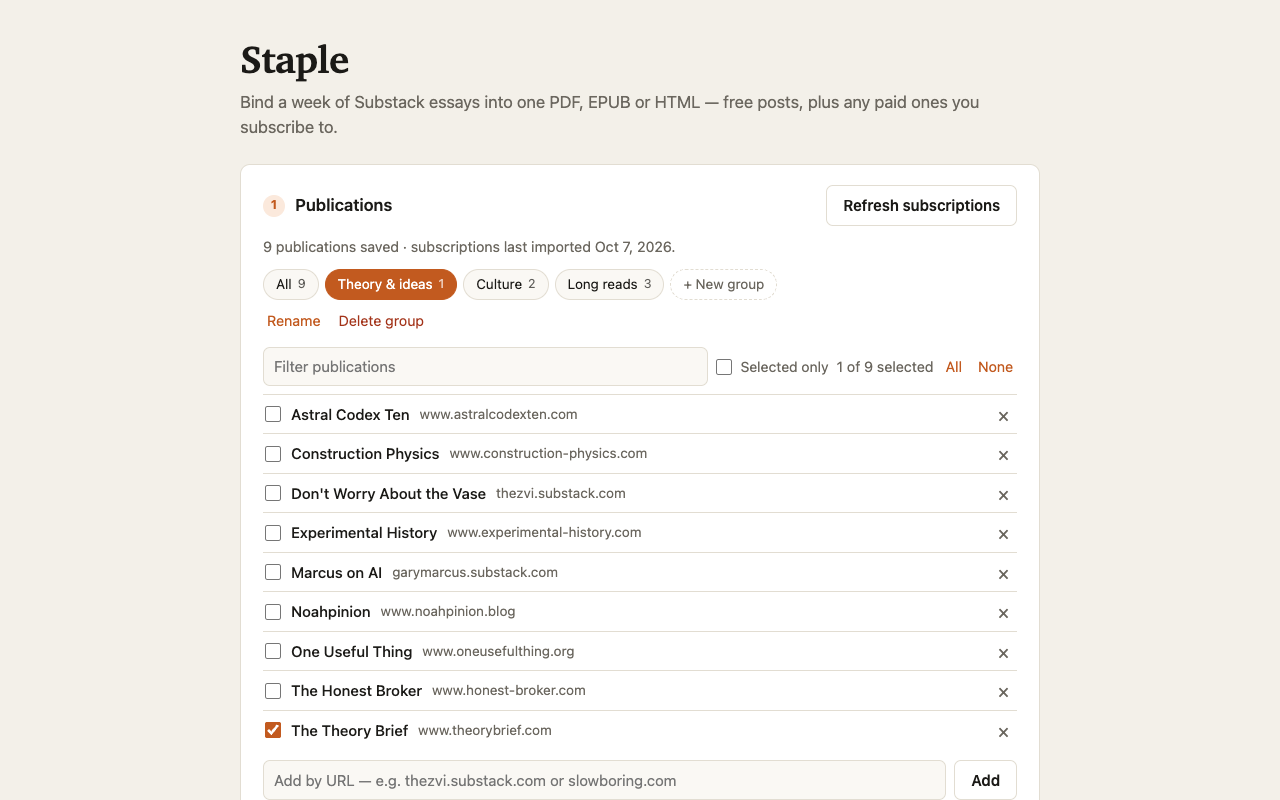
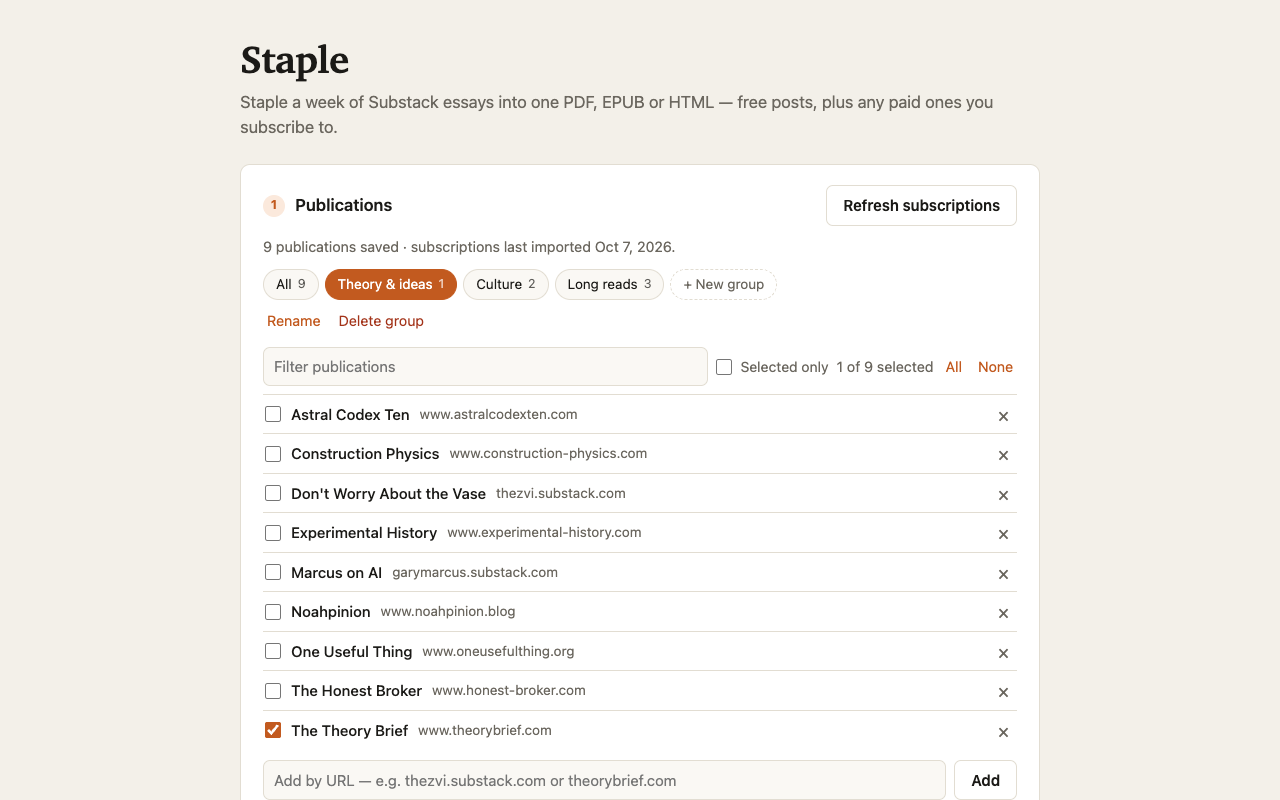
Stapled wording, theorybrief.com examples, final screenshots

Changed region(s): [[0.1875, 0.0938, 0.7812, 0.1562], [0.4375, 0.9688, 0.5, 1.0]]

diff --git a/index.html b/index.html
@@ -3,11 +3,11 @@
 <head>
 <meta charset="utf-8">
 <meta name="viewport" content="width=device-width, initial-scale=1">
-<title>Staple: your week of Substack, bound into one book</title>
+<title>Staple: your week of Substack, stapled into one collection</title>
 <meta name="description" content="Staple is a free Chrome extension that gathers the Substack essays you can read, free posts plus paid ones you subscribe to, into a single PDF, EPUB or HTML file for offline reading. No account, no server, no tracking.">
 <meta name="color-scheme" content="light dark">
 <meta property="og:title" content="Staple">
-<meta property="og:description" content="Your week of Substack, bound into one book: a PDF, EPUB or HTML file for offline reading. Free, and private by design.">
+<meta property="og:description" content="Your week of Substack, stapled into one collection: a PDF, EPUB or HTML file for offline reading. Free, and private by design.">
 <meta property="og:image" content="https://victorshammas.com/staple/icon.png">
 <link rel="icon" type="image/png" href="favicon.png">
 <link rel="apple-touch-icon" href="apple-touch-icon.png">
@@ -30,7 +30,7 @@
     <div class="wrap">
       <div>
         <img class="hero-icon" src="icon.png" alt="Staple extension icon" width="96" height="96">
-        <h1>Your week of Substack, bound into one book.</h1>
+        <h1>Your week of Substack, stapled into one collection.</h1>
         <p class="lede">Staple gathers the Substack essays you can read, free posts plus paid ones you subscribe to, into a single PDF, EPUB or HTML file for offline reading.</p>
         <div class="cta-row">
           <!-- At launch, replace with: <a class="btn" href="https://chromewebstore.google.com/detail/staple/EXTENSION_ID">Add to Chrome <small>Free</small></a> (see README.md). -->
@@ -116,7 +116,7 @@
       <a class="app-tile" href="https://victorshammas.com/plainview/"><img src="https://victorshammas.com/plainview/icon.png" alt="" width="44" height="44"><span><strong>Plainview</strong><small>A Markdown reader for the Mac</small></span></a>
       <a class="app-tile" href="https://victorshammas.com/gaugeline/"><img src="https://victorshammas.com/gaugeline/icon.png" alt="" width="44" height="44"><span><strong>Gaugeline</strong><small>AI usage limits in your menu bar</small></span></a>
       <a class="app-tile" href="https://victorshammas.com/quoth/"><img src="https://victorshammas.com/quoth/icon.png" alt="" width="44" height="44"><span><strong>Quoth</strong><small>Local voice transcription</small></span></a>
-      <a class="app-tile current" aria-current="page" href="https://victorshammas.com/staple/"><img src="https://victorshammas.com/staple/icon.png" alt="" width="44" height="44"><span><strong>Staple</strong><small>Substack, bound into one book</small><em>You’re here</em></span></a>
+      <a class="app-tile current" aria-current="page" href="https://victorshammas.com/staple/"><img src="https://victorshammas.com/staple/icon.png" alt="" width="44" height="44"><span><strong>Staple</strong><small>Substack, stapled together</small><em>You’re here</em></span></a>
     </div>
   </div>
 </section>

diff --git a/support.html b/support.html
@@ -76,11 +76,11 @@
     </details>
     <details>
       <summary>How do I add a publication I don't subscribe to?</summary>
-      <p>Type or paste its address into the field below your list, for example <code>name.substack.com</code> or a publication's own domain such as <code>slowboring.com</code>, and click <em>Add</em>.</p>
+      <p>Type or paste its address into the field below your list, for example <code>name.substack.com</code> or a publication's own domain such as <code>theorybrief.com</code>, and click <em>Add</em>.</p>
     </details>
     <details>
       <summary>Why does Chrome ask for permission to read some sites?</summary>
-      <p>Some Substack publications use their own web address, such as <code>www.slowboring.com</code>, instead of <code>name.substack.com</code>. Staple can read substack.com and its subdomains from the start, but needs your permission for each custom-domain site. Chrome asks once per site and names it. Staple never asks for access to all websites.</p>
+      <p>Some Substack publications use their own web address, such as <code>www.theorybrief.com</code>, instead of <code>name.substack.com</code>. Staple can read substack.com and its subdomains from the start, but needs your permission for each custom-domain site. Chrome asks once per site and names it. Staple never asks for access to all websites.</p>
       <p>If you said no, the publication stays in your list, but Staple can't find its posts. It asks again the next time you look for posts with that publication ticked. You can see the sites you've allowed on Staple's <em>Details</em> page in <code>chrome://extensions</code>.</p>
     </details>
     <details>
@@ -169,7 +169,7 @@
       <a class="app-tile" href="https://victorshammas.com/plainview/"><img src="https://victorshammas.com/plainview/icon.png" alt="" width="44" height="44"><span><strong>Plainview</strong><small>A Markdown reader for the Mac</small></span></a>
       <a class="app-tile" href="https://victorshammas.com/gaugeline/"><img src="https://victorshammas.com/gaugeline/icon.png" alt="" width="44" height="44"><span><strong>Gaugeline</strong><small>AI usage limits in your menu bar</small></span></a>
       <a class="app-tile" href="https://victorshammas.com/quoth/"><img src="https://victorshammas.com/quoth/icon.png" alt="" width="44" height="44"><span><strong>Quoth</strong><small>Local voice transcription</small></span></a>
-      <a class="app-tile current" aria-current="page" href="https://victorshammas.com/staple/"><img src="https://victorshammas.com/staple/icon.png" alt="" width="44" height="44"><span><strong>Staple</strong><small>Substack, bound into one book</small><em>You’re here</em></span></a>
+      <a class="app-tile current" aria-current="page" href="https://victorshammas.com/staple/"><img src="https://victorshammas.com/staple/icon.png" alt="" width="44" height="44"><span><strong>Staple</strong><small>Substack, stapled together</small><em>You’re here</em></span></a>
     </div>
   </div>
 </section>

diff --git a/privacy.html b/privacy.html
@@ -67,7 +67,7 @@
       <a class="app-tile" href="https://victorshammas.com/plainview/"><img src="https://victorshammas.com/plainview/icon.png" alt="" width="44" height="44"><span><strong>Plainview</strong><small>A Markdown reader for the Mac</small></span></a>
       <a class="app-tile" href="https://victorshammas.com/gaugeline/"><img src="https://victorshammas.com/gaugeline/icon.png" alt="" width="44" height="44"><span><strong>Gaugeline</strong><small>AI usage limits in your menu bar</small></span></a>
       <a class="app-tile" href="https://victorshammas.com/quoth/"><img src="https://victorshammas.com/quoth/icon.png" alt="" width="44" height="44"><span><strong>Quoth</strong><small>Local voice transcription</small></span></a>
-      <a class="app-tile current" aria-current="page" href="https://victorshammas.com/staple/"><img src="https://victorshammas.com/staple/icon.png" alt="" width="44" height="44"><span><strong>Staple</strong><small>Substack, bound into one book</small><em>You’re here</em></span></a>
+      <a class="app-tile current" aria-current="page" href="https://victorshammas.com/staple/"><img src="https://victorshammas.com/staple/icon.png" alt="" width="44" height="44"><span><strong>Staple</strong><small>Substack, stapled together</small><em>You’re here</em></span></a>
     </div>
   </div>
 </section>
